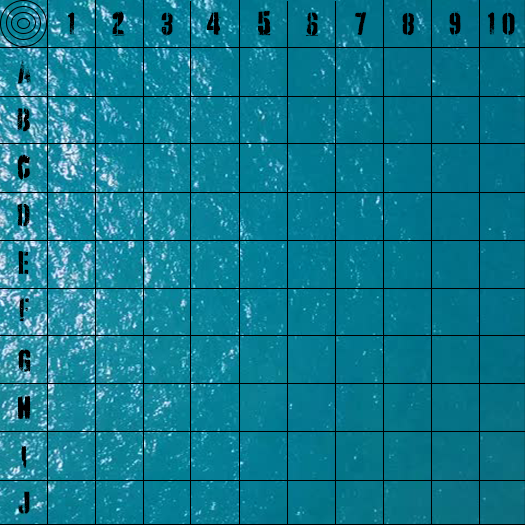
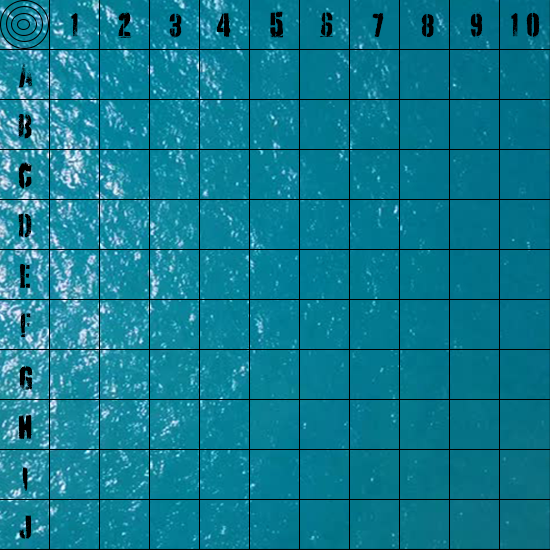
updated styling

Changed region(s): [[0.0, 0.0, 1.0, 1.0]]

diff --git a/wwwroot/js/site.js b/wwwroot/js/site.js
@@ -1,6 +1,18 @@
 // Please see documentation at https://docs.microsoft.com/aspnet/core/client-side/bundling-and-minification
 // for details on configuring this project to bundle and minify static web assets.
 
+$( document ).ready(function() {
+    console.log( "ready!" );
+    $(".enemyMap").mousemove(function(event){
+        var X = event.pageX - $(this).offset().left;
+        var Y = event.pageY - $(this).offset().top;
+        console.log(X + ", "+ Y);
+    });
+});
+
+
+
+
 // Write your JavaScript code.
 let board = [
     [0,1,2,3,4,5,6,7,8,9,10],

diff --git a/wwwroot/css/site.css b/wwwroot/css/site.css
@@ -1,6 +1,9 @@
 /* Please see documentation at https://docs.microsoft.com/aspnet/core/client-side/bundling-and-minification
 for details on configuring this project to bundle and minify static web assets. */
-
+*{
+  padding: 0px;
+  margin: 0px;
+}
 a.navbar-brand {
   white-space: normal;
   text-align: center;
@@ -91,4 +94,14 @@ body {
 .sent{
   display: inline-flex;
   float: right;
+}
+#FriendsFrame{
+  max-width: 200px;
+}
+#ChatFrame{
+  max-width: 350px;
+}
+#MapsFrame{
+  max-width: 600px;
+  padding-bottom: 5px;
 }

diff --git a/Controllers/GQController.cs b/Controllers/GQController.cs
@@ -22,10 +22,10 @@ namespace General_Quarters.Controllers
         [HttpGet("dashboard")]
         public IActionResult DashBoard()
         {
-            // if (uid == null)
-            // {
-            //     return RedirectToAction("Index", "Home");
-            // }
+            if (uid == null)
+            {
+                return RedirectToAction("Index", "Home");
+            }
             return View("Dashboard", "GQ");
         }
     }
